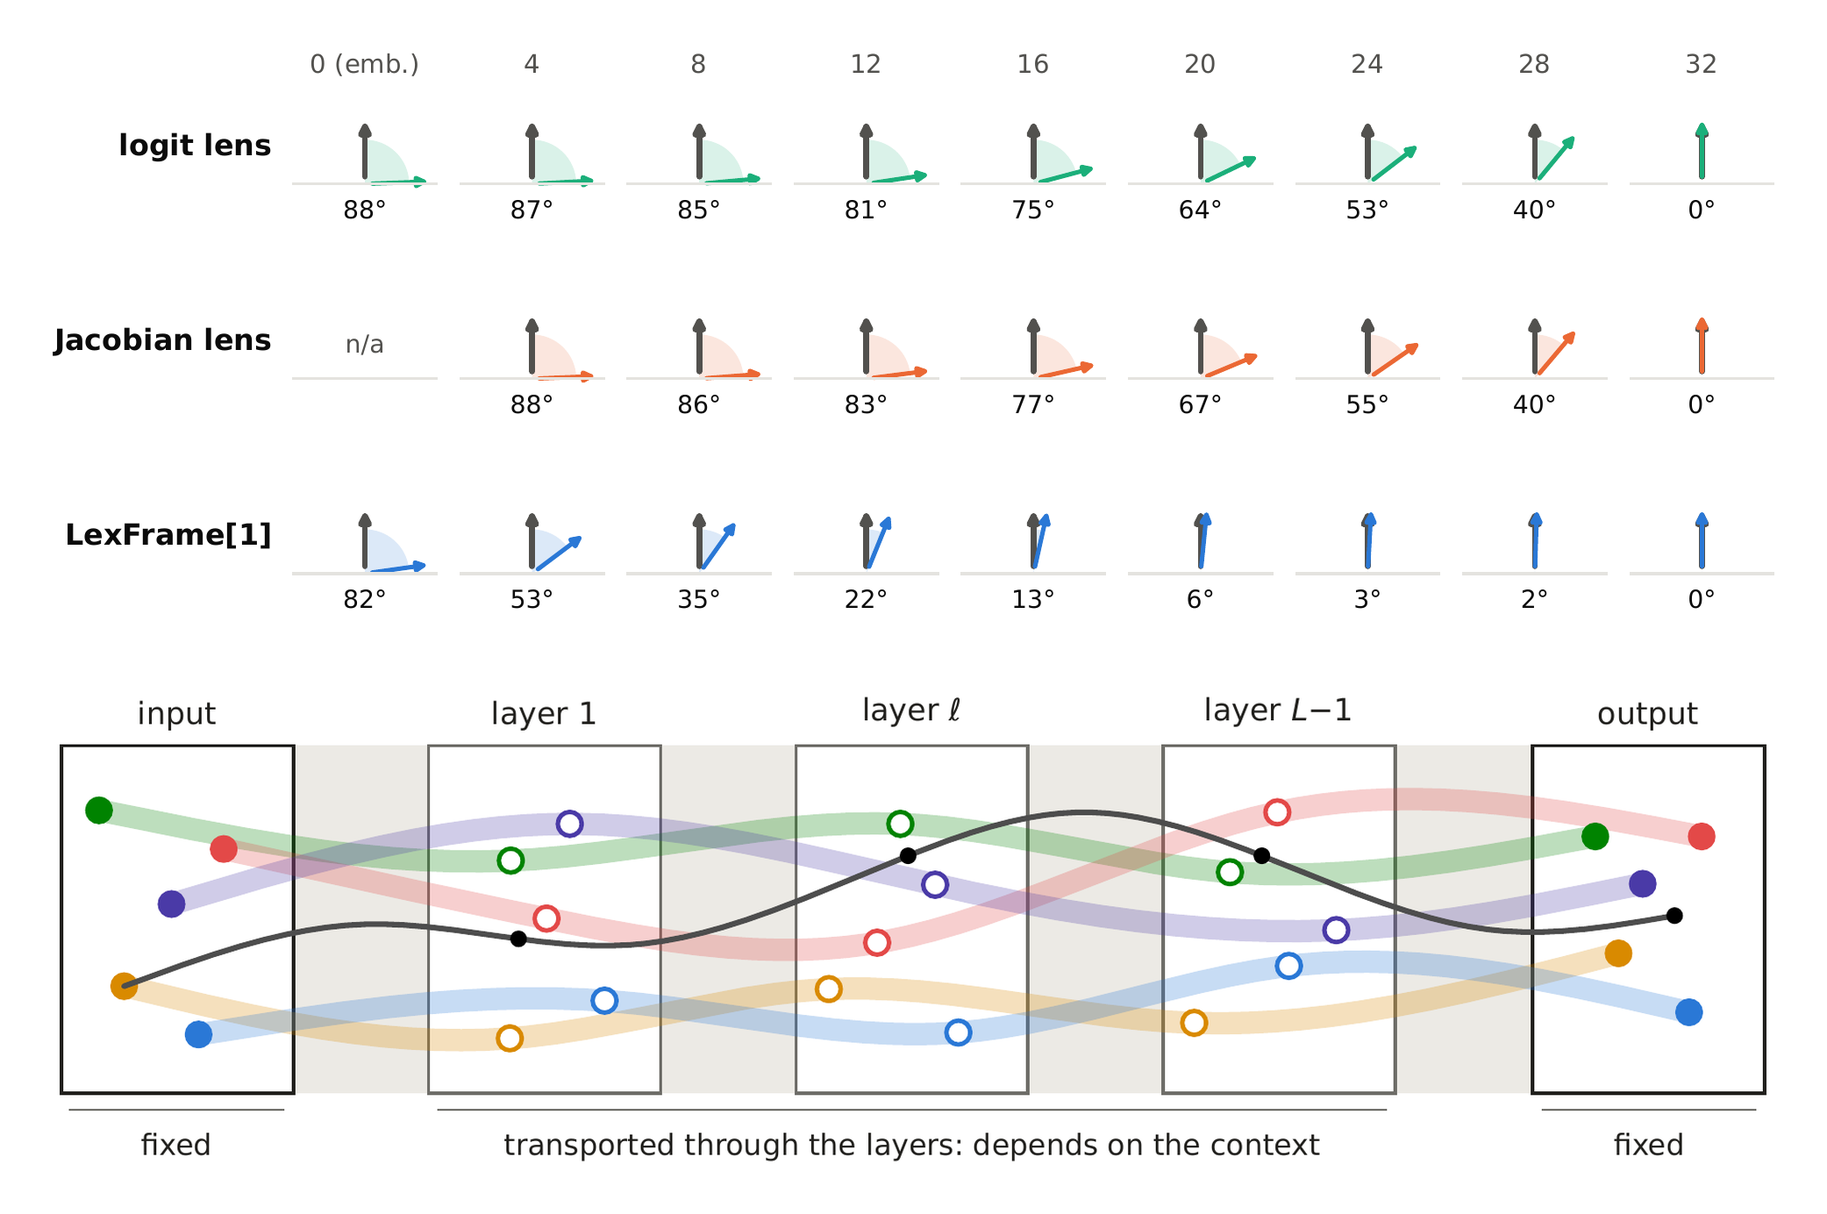
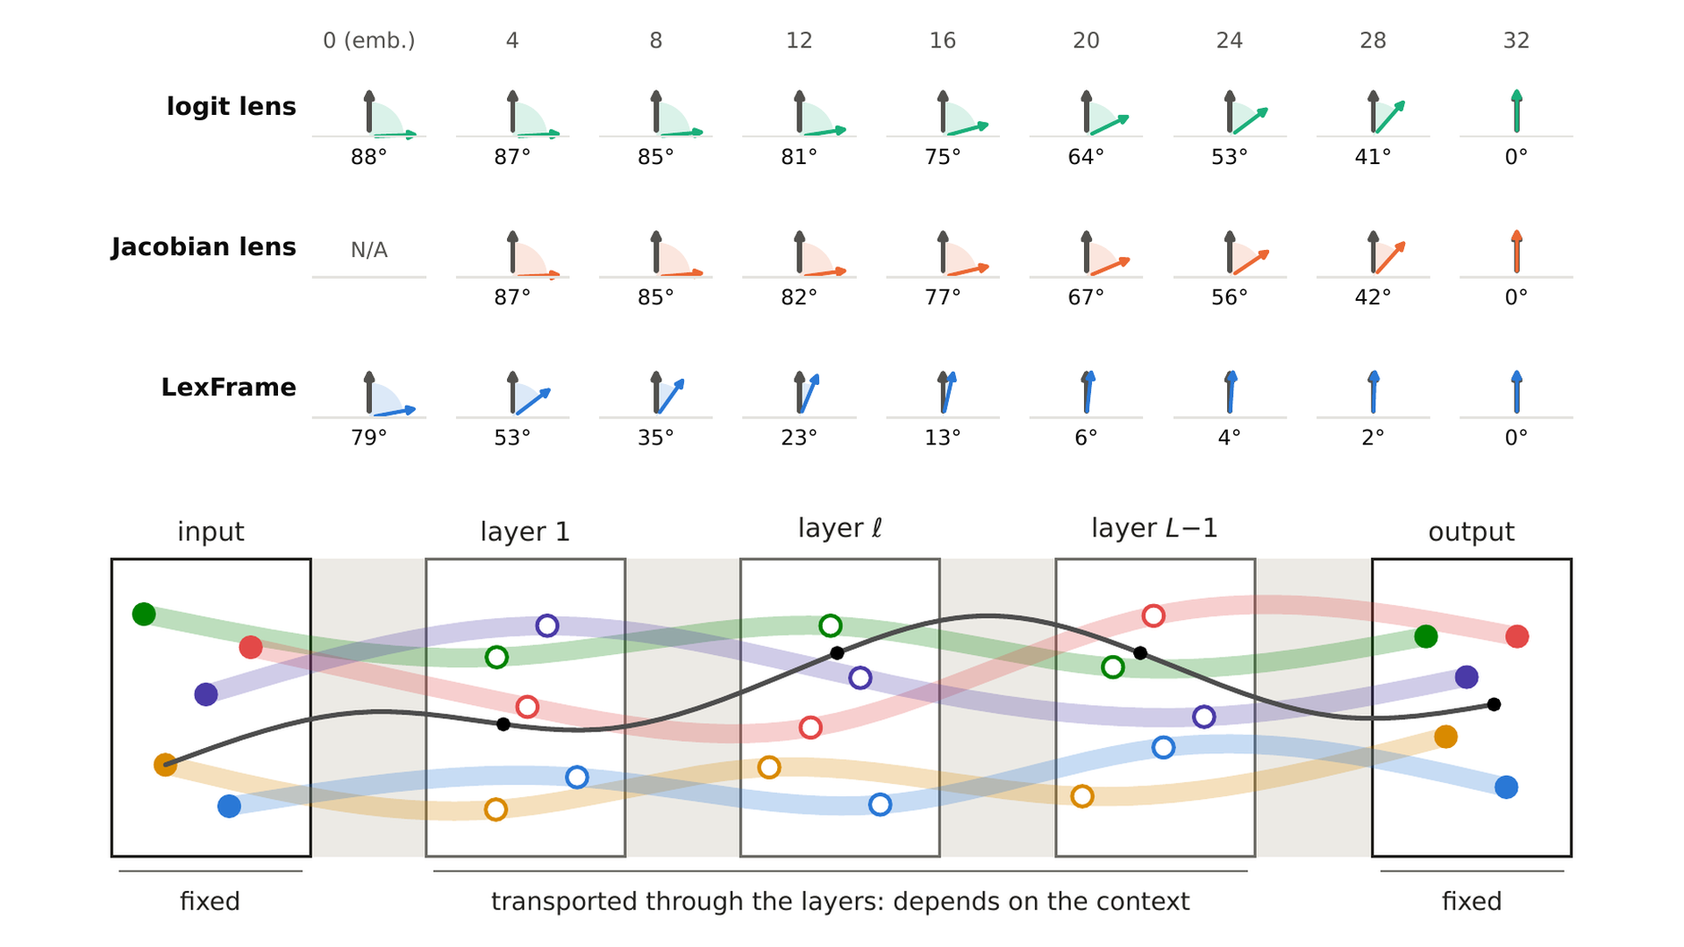
LexFrame 1.1.0

diff --git a/src/lexframe/_frame.py b/src/lexframe/_frame.py
@@ -6,7 +6,7 @@ import hashlib
 import math
 import os
 import warnings
-from typing import Iterable, Sequence
+from typing import Iterable, Mapping, Sequence
 
 import numpy as np
 import torch
@@ -18,6 +18,7 @@ from ._calibrate import Calibration, calibrate, chunks
 from ._model import Model, forward, kl, logprobs, wrap
 
 Text = str | Sequence[str] | torch.Tensor
+Token = int | str
 Layers = int | Iterable[int] | None
 NATIVE = math.inf
 CHECK_TEXT = "The quick brown fox jumps over the lazy dog."
@@ -40,9 +41,11 @@ class Carrier:
     carries and reads them.
 
     vector: the states, [..., position, hidden]; tokens, ids, probs [..., position, k] and kl [..., position]: the
-    frame's reading, as NumPy arrays. basis(), readout() and coef() give the lexical basis, the lexical readout and the
-    coefficients of given tokens at the states of one text. Adding or subtracting a vector moves the states; a moved
-    Carrier is read again with frame.view(), which in the native frame gives the model's own output.
+    frame's reading, as NumPy arrays. first_layer() finds where a token first tops the reading. basis(), readout() and
+    coef() give the lexical basis, the lexical readout and the coefficients of given tokens (ids or single-token
+    strings such as " Paris") at the states of one text. Adding or subtracting a vector moves the states, and steer()
+    moves them along the basis; a moved Carrier is read again with frame.view(), which in the native frame gives the
+    model's own output.
     """
 
     def __init__(self, frame, vector, layers, ids, context, flags, moved=False, reading=None):
@@ -50,20 +53,38 @@ class Carrier:
         self._frame, self._ids, self._context, self._flags = frame, ids, context, flags
         self.ids, self.probs, self.tokens, self.kl = reading or (None, None, None, None)
 
-    def basis(self, tokens: Sequence[int]) -> torch.Tensor:
+    def basis(self, tokens: Sequence[Token]) -> torch.Tensor:
         """The lexical basis of the tokens, [..., position, token, hidden]: the move of the state that the remaining
         layers turn into raising that token alone, scaled to raise its logit by one. Unmoved states only."""
         return self._frame._directions(self, tokens, "basis")
 
-    def readout(self, tokens: Sequence[int]) -> torch.Tensor:
+    def readout(self, tokens: Sequence[Token]) -> torch.Tensor:
         """The lexical readout of the tokens, [..., position, token, hidden]: the gradient of each token's logit, so
         its inner product with a displacement of the state is the logit change it predicts."""
         return self._frame._directions(self, tokens, "readout")
 
-    def coef(self, tokens: Sequence[int]) -> torch.Tensor:
+    def coef(self, tokens: Sequence[Token]) -> torch.Tensor:
         """The coefficients of the state on the tokens, [..., position, token]: their centred logits after the
         transport."""
         return self._frame._directions(self, tokens, "coef")
+
+    def steer(self, weights: Mapping[Token, float]) -> Carrier:
+        """The states moved along the lexical basis of each token by its weight, in logits, at every position, e.g.
+        {" Paris": -4, " London": 4}. Unmoved states of one text only."""
+        tokens = list(weights)
+        b = self.basis(tokens)
+        w = torch.tensor([float(weights[t]) for t in tokens], dtype=b.dtype, device=b.device)
+        return self + (b * w[:, None]).sum(-2)
+
+    def first_layer(self, token: Token) -> np.ndarray:
+        """The first of the read layers at which the token tops the frame's reading, [..., position]; -1 where it
+        never does."""
+        if self.ids is None:
+            raise ValueError("a moved Carrier has no reading; read it with frame.view() first")
+        top = self.ids[..., 0] == self._frame.token_id(token)
+        top = top[..., None, :] if isinstance(self.layers, int) else top
+        layers = np.array(self._layer_list())
+        return np.where(top.any(-2), layers[top.argmax(-2)], -1)
 
     def _layer_list(self) -> list[int]:
         return [self.layers] if isinstance(self.layers, int) else list(self.layers)
@@ -207,8 +228,8 @@ class LexFrame:
         return Carrier(self, vector, layers_, ids, xs, flags, moved, (out[0], out[1], tokens, out[2]))
 
     @torch.no_grad()
-    def attr(self, text: Text, sublayer: str | None = None, target: int | None = None) -> np.ndarray:
-        """How much each layer (or its `sublayer`, "attn" or "mlp") contributed to the logit of the token index
+    def attr(self, text: Text, sublayer: str | None = None, target: Token | None = None) -> np.ndarray:
+        """How much each layer (or its `sublayer`, "attn" or "mlp") contributed to the logit of the token
         `target` (default: the model's own prediction at every position), [layer, position]."""
         if sublayer not in (None, "attn", "mlp"):
             raise ValueError("sublayer is None (the whole layer), 'attn' or 'mlp'")
@@ -217,7 +238,11 @@ class LexFrame:
         hL, xs, mid = forward(self._m, ids, mid=True)
         L = self._m.n_layers
         W = self._m.lm_head.weight.float()
-        top = (self._m.final_norm(hL).float() @ W.T).argmax(-1) if target is None else torch.full_like(ids, int(target))
+        top = (
+            (self._m.final_norm(hL).float() @ W.T).argmax(-1)
+            if target is None
+            else torch.full_like(ids, self.token_id(target))
+        )
         Wd = W[top] - W.mean(0)
         states = xs + [hL]
         written = {
@@ -234,7 +259,7 @@ class LexFrame:
         out = out.transpose(0, 1).cpu().numpy()
         return out[0] if _single(text) else out
 
-    def bound(self, texts: Iterable[Text], token: int, layers: Layers = None) -> np.ndarray:
+    def bound(self, texts: Iterable[Text], token: Token, layers: Layers = None) -> np.ndarray:
         """The best mean cosine that any lens, with one direction per token and layer, can reach with the model's own
         readout of `token`, per layer: sqrt of the readout's agreement across at least two texts. It is a property of
         the model (the native frame), whatever the order of this frame."""
@@ -252,6 +277,18 @@ class LexFrame:
         n = torch.tensor(counts, dtype=torch.float64)
         kappa = ((S.sum(0) ** 2).sum(-1) - (S**2).sum((0, -1))) / (n.sum() ** 2 - (n**2).sum())
         return kappa.clamp_min(0).sqrt().cpu().numpy()
+
+    def token_id(self, token: Token) -> int:
+        """The id of a token, given as an id or as a string that the tokenizer encodes to exactly one token."""
+        if not isinstance(token, str):
+            return int(token)
+        if self._m.tokenizer is None:
+            raise ValueError(f"a token given as the string {token!r} needs the tokenizer")
+        ids = self._m.tokenizer.encode(token, add_special_tokens=False)
+        if len(ids) != 1:
+            pieces = [self._m.tokenizer.decode([i]) for i in ids]
+            raise ValueError(f"{token!r} is {len(ids)} tokens, {pieces}; give a single token or its id")
+        return ids[0]
 
     def _directions(self, x: Carrier, tokens, kind) -> torch.Tensor:
         self._ready()
@@ -275,7 +312,7 @@ class LexFrame:
         T = ids.shape[1]
         one = isinstance(layers, int)
         LS = self._layers(layers)
-        vs = torch.tensor([int(t) for t in tokens], device=self._m.device)
+        vs = torch.tensor([self.token_id(t) for t in tokens], device=self._m.device)
         W = self._m.lm_head.weight.float()
         Wc = W[vs] - W.mean(0)
         Xl = None if X is None else [X[l] for l in LS]

diff --git a/examples/visualize.py b/examples/visualize.py
@@ -1,0 +1,119 @@
+"""Plot what every layer of SmolLM3 reads about the Eiffel Tower: the top token at each position, the coefficients of
+the answer and the runner-up, and each layer's contribution to the answer (visualize.png); then follow the lexical bases
+around the state at the last position through the layers (visualize_bases.png). Needs matplotlib."""
+
+import matplotlib.pyplot as plt
+import numpy as np
+import torch
+from datasets import load_dataset
+from transformers import AutoModelForCausalLM, AutoTokenizer
+
+import lexframe as lf
+
+name = "HuggingFaceTB/SmolLM3-3B"
+model = AutoModelForCausalLM.from_pretrained(name, device_map="cuda" if torch.cuda.is_available() else "cpu")
+tokenizer = AutoTokenizer.from_pretrained(name)
+texts = load_dataset("Salesforce/wikitext", "wikitext-103-raw-v1", split="train")["text"][:1000]
+
+frame = lf.LexFrame(model, tokenizer).init(texts)
+
+
+def label(token: int, quote: bool = True, width: int = 12) -> str:
+    """A token as printable text: escaped, shortened, and its id where it decodes to nothing (e.g. padding rows)."""
+    text = repr(tokenizer.decode([token]))[1:-1]
+    text = text[: width - 1] + "…" if len(text) > width else text
+    return (f"'{text}'" if quote else text) if text else f"#{token}"
+
+
+text = "The Eiffel Tower is located in the city of"
+answer, rival = " Paris", " London"
+top_k = 3  # how many of the bases nearest to the state to follow at every layer
+extra = [rival]  # further labels whose bases to follow
+
+v = frame.view(text, k=top_k)
+coef = v.coef([answer, rival])[:, -1].cpu().numpy()
+contribution = frame.attr(text, target=answer)[:, -1]
+first = v.first_layer(answer)[-1]
+layers = range(frame.num_layers + 1)
+
+fig, (ax1, ax2, ax3) = plt.subplots(
+    1, 3, figsize=(18, 9), gridspec_kw={"width_ratios": [3, 1, 1]}, sharey=True, constrained_layout=True
+)
+
+# 1. The top token of the reading at every layer and position, shaded by its probability.
+image = ax1.imshow(v.probs[..., 0], aspect="auto", origin="lower", cmap="Blues", vmin=0, vmax=1)
+for (layer, position), token in np.ndenumerate(v.ids[..., 0]):
+    ax1.text(position, layer, label(token, quote=False), ha="center", va="center", fontsize=6)
+words = [label(i, quote=False) for i in tokenizer.encode(text, add_special_tokens=False)]
+ax1.set_xticks(range(len(words)), words, rotation=45, ha="right")
+ax1.set_ylabel("layer (0 is the embedding, the last is the output)")
+ax1.set_title("top token of each layer's reading")
+fig.colorbar(image, ax=ax1, label="probability", location="left")
+
+# 2. The coefficients of the answer and the runner-up at the last position.
+ax2.plot(coef[:, 0], layers, label=answer.strip())
+ax2.plot(coef[:, 1], layers, label=rival.strip())
+if first >= 0:
+    ax2.axhline(first, color="grey", linestyle=":", label=f"{answer.strip()} on top")
+ax2.set_xlabel("coefficient (centred logit)")
+ax2.set_title("answer and runner-up")
+ax2.legend()
+
+# 3. Each layer's contribution to the answer's logit at the last position (layer l writes the state of layer l + 1).
+ax3.barh([l + 1 for l in range(frame.num_layers)], contribution, color="tab:green")
+ax3.set_xlabel("contribution to the logit")
+ax3.set_title(f"who wrote {answer.strip()}")
+
+fig.savefig("visualize.png", dpi=150)
+print("saved visualize.png")
+
+# 4. Where the state at the last position sits among the lexical bases, layer by layer: its cosine with each basis
+# and its coefficient on it, its coordinate in the frame. Followed are the bases of the input token at this position,
+# where the state starts, of the model's output, where it ends, of the extra labels, and at every layer the top_k
+# nearest ones, those with the largest coefficients.
+near = v.ids[:, -1]  # [layer, top_k]
+start = tokenizer.encode(text, add_special_tokens=False)[-1]
+target = int(near[-1, 0])
+roles = {}
+for token, role in [(start, "input"), (target, "output"), *((frame.token_id(t), "extra") for t in extra)]:
+    roles.setdefault(token, role)
+tracked = list(dict.fromkeys([*roles, *(int(t) for t in near.reshape(-1))]))
+names = [label(t) for t in tracked]
+b = v.basis(tracked)[:, -1].float()  # [layer, token, hidden]
+cos = torch.nn.functional.cosine_similarity(b, v.vector[:, -1, None].float(), dim=-1).cpu().numpy()
+coef = v.coef(tracked)[:, -1].cpu().numpy()
+
+cell = lambda i, l: f"{names[i]} {coef[l, i]:+.1f} {cos[l, i]:+.2f}"
+print(f"layer: the {top_k} nearest bases | " + ", ".join(f"{r} {names[tracked.index(t)]}" for t, r in roles.items()))
+print("       (each as token, coefficient, cosine)")
+for l in layers:
+    nearest = "  ".join(cell(tracked.index(int(t)), l) for t in near[l])
+    fixed = "  ".join(cell(i, l) for i in range(len(roles)))
+    print(f"{l:>5}: {nearest} | {fixed}")
+
+fig, (ax1, ax2) = plt.subplots(1, 2, figsize=(13, 5.5), layout="constrained")
+style = {"input": dict(color="tab:blue", linestyle="--"), "output": dict(color="tab:red", linewidth=2.5)}
+others = iter(plt.cm.tab10.colors[1:])
+for i, token in enumerate(tracked):
+    role = roles.get(token)
+    if role is None:
+        kw = dict(color="grey", linewidth=0.8, alpha=0.6)
+    else:
+        kw = dict(style.get(role) or dict(color=next(others)))
+        kw["label"] = f"{role} {names[i]}"
+    ax1.plot(layers, cos[:, i], **kw)
+    ax2.plot(layers, coef[:, i], **kw)
+    if role is None:  # name each nearby basis where the state holds most of it
+        l = int(coef[:, i].argmax())
+        ax2.annotate(names[i], (l, coef[l, i]), fontsize=6, color="dimgrey")
+ax1.plot([], [], color="grey", linewidth=0.8, label=f"top {top_k} nearest at some layer")
+ax1.set_ylabel("cosine of the state with the basis")
+ax1.set_title("the state's angle to each basis")
+ax2.set_ylabel("coefficient (centred logit)")
+ax2.set_title("the state's coordinate on each basis")
+fig.legend(*ax1.get_legend_handles_labels(), loc="outside lower center", ncol=4, fontsize=8, frameon=False)
+for ax in (ax1, ax2):
+    ax.set_xlabel("layer")
+    ax.xaxis.get_major_locator().set_params(integer=True)
+fig.savefig("visualize_bases.png", dpi=150)
+print("saved visualize_bases.png")

diff --git a/tests/test_frame.py b/tests/test_frame.py
@@ -126,6 +126,39 @@ def test_steering(frame):
     assert with_order(frame, 1).view(moved, k=1).ids.shape == (T, 1)
 
 
+def test_steer(frame):
+    s = frame.view(TEXT, layers=2)
+    b = s.basis([PARIS, LONDON])
+    moved = s.steer({"paris": 2, LONDON: -2})
+    # steer solves the basis again, and an iterative solve repeats only up to rounding
+    d, want = (moved - s).vector, 2 * b[:, 0] - 2 * b[:, 1]
+    assert moved.moved and (d - want).norm() < 1e-2 * want.norm()
+    with pytest.raises(ValueError, match="moved"):
+        moved.steer({"paris": 1})
+
+
+def test_first_layer(frame):
+    v = frame.view(TEXT)
+    token = int(v.ids[-1, -1, 0])
+    first = v.first_layer(token)
+    top = v.ids[..., 0] == token
+    assert first.shape == (T,) and first[-1] == int(np.argmax(top[:, -1])) and v.first_layer("paris").min() >= -1
+    assert (first[~top.any(0)] == -1).all()
+    assert frame.view(TEXT, layers=L).first_layer(token)[-1] == L
+    assert frame.view([TEXT, TEXT]).first_layer(token).shape == (2, T)
+    with pytest.raises(ValueError, match="no reading"):
+        (v + 0).first_layer(token)
+
+
+def test_tokens_as_strings(frame):
+    s = frame.view(TEXT, layers=2)
+    assert torch.equal(s.coef(["paris", "london"]), s.coef([PARIS, LONDON]))
+    assert np.array_equal(frame.attr(TEXT, target="paris"), frame.attr(TEXT, target=PARIS))
+    assert frame.token_id("paris") == frame.token_id(PARIS) == PARIS
+    with pytest.raises(ValueError, match="2 tokens"):
+        s.coef(["paris london"])
+
+
 @pytest.mark.parametrize("sublayer", [None, "attn", "mlp"])
 def test_attr(frame, sublayer):
     a = frame.attr(TEXT, sublayer)

diff --git a/src/lexframe/__init__.py b/src/lexframe/__init__.py
@@ -1,6 +1,6 @@
 """A toolkit for interpreting LM residual streams in their native semantics."""
 
-__version__ = "1.0.0"
+__version__ = "1.1.0"
 
 from ._frame import Carrier, LexFrame
 

diff --git a/README.md b/README.md
@@ -4,10 +4,9 @@
 
 <p align="center">
   <a href="https://pypi.org/project/lexframe/"><img src="https://img.shields.io/pypi/v/lexframe?cacheSeconds=3600" alt="PyPI"></a>
-  <a href="https://pypi.org/project/lexframe/"><img src="https://img.shields.io/pypi/pyversions/lexframe?cacheSeconds=3600" alt="Python"></a>
   <a href="https://github.com/jianguda/lexframe/actions/workflows/workflow.yml"><img src="https://img.shields.io/github/actions/workflow/status/jianguda/lexframe/workflow.yml?branch=main&label=CI" alt="CI"></a>
-  <a href="https://github.com/jianguda/lexframe/blob/main/LICENSE"><img src="https://img.shields.io/badge/license-Apache--2.0-blue" alt="License"></a>
   <a href="https://arxiv.org/abs/2610.22169"><img src="https://img.shields.io/badge/arXiv-2610.22169-b31b1b" alt="arXiv"></a>
+  <a href="https://jianguda.github.io/blogs/lexframe/"><img src="https://img.shields.io/badge/blog-lexframe-orange" alt="Blog"></a>
 </p>
 
 <p align="center"><img src="https://raw.githubusercontent.com/jianguda/lexframe/main/assets/overview.png" width="720" alt="LexFrame overview"></p>
@@ -25,20 +24,25 @@ pip install lexframe
 ```python
 import lexframe as lf
 
-frame = lf.LexFrame(model, tokenizer).init(texts)   # a loaded Hugging Face model and any unlabelled texts
-c = frame.view("The Eiffel Tower is located in the city of", k=5)
-c.tokens                                            # the top 5 tokens of every layer at every position
+frame = lf.LexFrame(model, tokenizer).init(texts)            # a loaded Hugging Face model and any unlabelled texts
+text = "The Eiffel Tower is located in the city of"
+v = frame.view(text, k=5)
+v.tokens                                                     # read: the top 5 tokens of every layer at every position
+v.first_layer(" Paris")                                      # the first layer where " Paris" tops the reading
+frame.attr(text)                                             # attribute: each layer's contribution to the prediction
+c = frame.view(text, layers=16)
+frame.view(c.steer({" Paris": -4, " London": 4})).tokens     # steer: move layer 16 from Paris toward London
 ```
 
-[docs/USAGE.md](https://github.com/jianguda/lexframe/blob/main/docs/USAGE.md) lists every command, and [demo.py](https://github.com/jianguda/lexframe/blob/main/demo.py) walks through them: where SmolLM3 decides that the Eiffel Tower is in Paris, who wrote that decision, and how to change it.
+[docs/USAGE.md](https://github.com/jianguda/lexframe/blob/main/docs/USAGE.md) lists every command, and [examples/walkthrough.py](https://github.com/jianguda/lexframe/blob/main/examples/walkthrough.py) puts them to work: where SmolLM3 decides that the Eiffel Tower is in Paris, who wrote that decision, and how to change it. [examples/visualize.py](https://github.com/jianguda/lexframe/blob/main/examples/visualize.py) plots every layer's reading and where the state sits among the lexical bases, layer by layer.
 
 ## Mechanism
 
-A frame transports a hidden state through the model's own remaining layers, with the context the state attends to, and reads the result with the model's own unembedding. [docs/MECHANISM.md](https://github.com/jianguda/lexframe/blob/main/docs/MECHANISM.md) explains the details.
+Lenses such as the logit lens and the Jacobian lens read every hidden state of a layer through one fixed frame, so they share a ceiling, and in middle layers they often miss what the model already knows. A frame instead transports a hidden state through the model's own remaining layers, with the context the state attends to, and reads the result in lexical semantics, over the model's own vocabulary. In this frame, predictions can be read, attributed and steered at every layer. [docs/MECHANISM.md](https://github.com/jianguda/lexframe/blob/main/docs/MECHANISM.md) explains the details, and the [blog post](https://jianguda.github.io/blogs/lexframe/) explains why this frame matters.
 
 ## Compatibility
 
-LexFrame supports the same causal language models as 🤗 Transformers, including popular families such as `Llama`, `Qwen`, `Gemma`, `Mistral` and `DeepSeek`.
+LexFrame supports the same causal language models as 🤗 Transformers, including popular model families such as `Llama`, `Qwen`, `Gemma`, `Mistral` and `DeepSeek`.
 
 ## Citation
 

diff --git a/docs/USAGE.md b/docs/USAGE.md
@@ -7,8 +7,8 @@ import lexframe as lf
 
 frame = lf.LexFrame(model, tokenizer, order=1).init(texts)
 c = frame.view("The Eiffel Tower is located in the city of", k=5, layers=16)
-b, r = c.basis([paris, london]), c.readout([paris, london])
-moved = c + 2 * b[:, 0] - 2 * b[:, 1]
+b, r = c.basis([" Paris", " London"]), c.readout([" Paris", " London"])
+moved = c.steer({" Paris": 2, " London": -2})               # the same as c + 2 * b[:, 0] - 2 * b[:, 1]
 frame.view(moved).tokens
 ```
 
@@ -22,6 +22,7 @@ frame.view(moved).tokens
 | `frame.view(text, k=1, layers=None)` | a `Carrier` at every layer (or the given ones), or the reading of a (moved) `Carrier` |
 | `frame.attr(text, sublayer=None, target=None)` | each layer's (or its `"attn"` or `"mlp"` sublayer's) contribution to the target's logit, `[layer, position]` |
 | `frame.bound(texts, token, layers=None)` | the best agreement any fixed lens can reach, per layer |
+| `frame.token_id(token)` | the id of a token given as an id or as a string of exactly one token |
 
 ## Carrier
 
@@ -30,12 +31,14 @@ frame.view(moved).tokens
 | `vector` | the hidden states, `[..., position, hidden]` |
 | `tokens`, `ids`, `probs` | the top `k` tokens of the frame's reading, `[..., position, k]` |
 | `kl` | the divergence of the reading from the model's output, in nats, `[..., position]` |
+| `first_layer(token)` | the first read layer at which the token tops the reading, `[..., position]`, or -1 |
 | `basis(tokens)` | vectors that move the state to add one logit to each token, `[..., position, token, hidden]` |
 | `readout(tokens)` | covectors that measure each token's logit, so `readout @ basis.mT` has ones on the diagonal |
 | `coef(tokens)` | how much of each token the state holds, its centred logits, `[..., position, token]` |
+| `steer({token: weight})` | a moved `Carrier`, shifted along each token's basis by its weight in logits |
 | `carrier + v`, `carrier - v` | a moved `Carrier`, read again with `frame.view(moved)` |
 
-Layers run from 0, the embedding, to `frame.num_layers`, the output. `view` and `attr` take a list of texts of one token length, which adds a leading axis, and `basis`, `readout` and `coef` take the carrier of one text.
+Tokens are given as ids or as strings that encode to exactly one token, such as `" Paris"`; a string of several tokens is refused. Layers run from 0, the embedding, to `frame.num_layers`, the output. `view` and `attr` take a list of texts of one token length, which adds a leading axis, and `basis`, `readout` and `coef` take the carrier of one text.
 
 ## Notes
 
